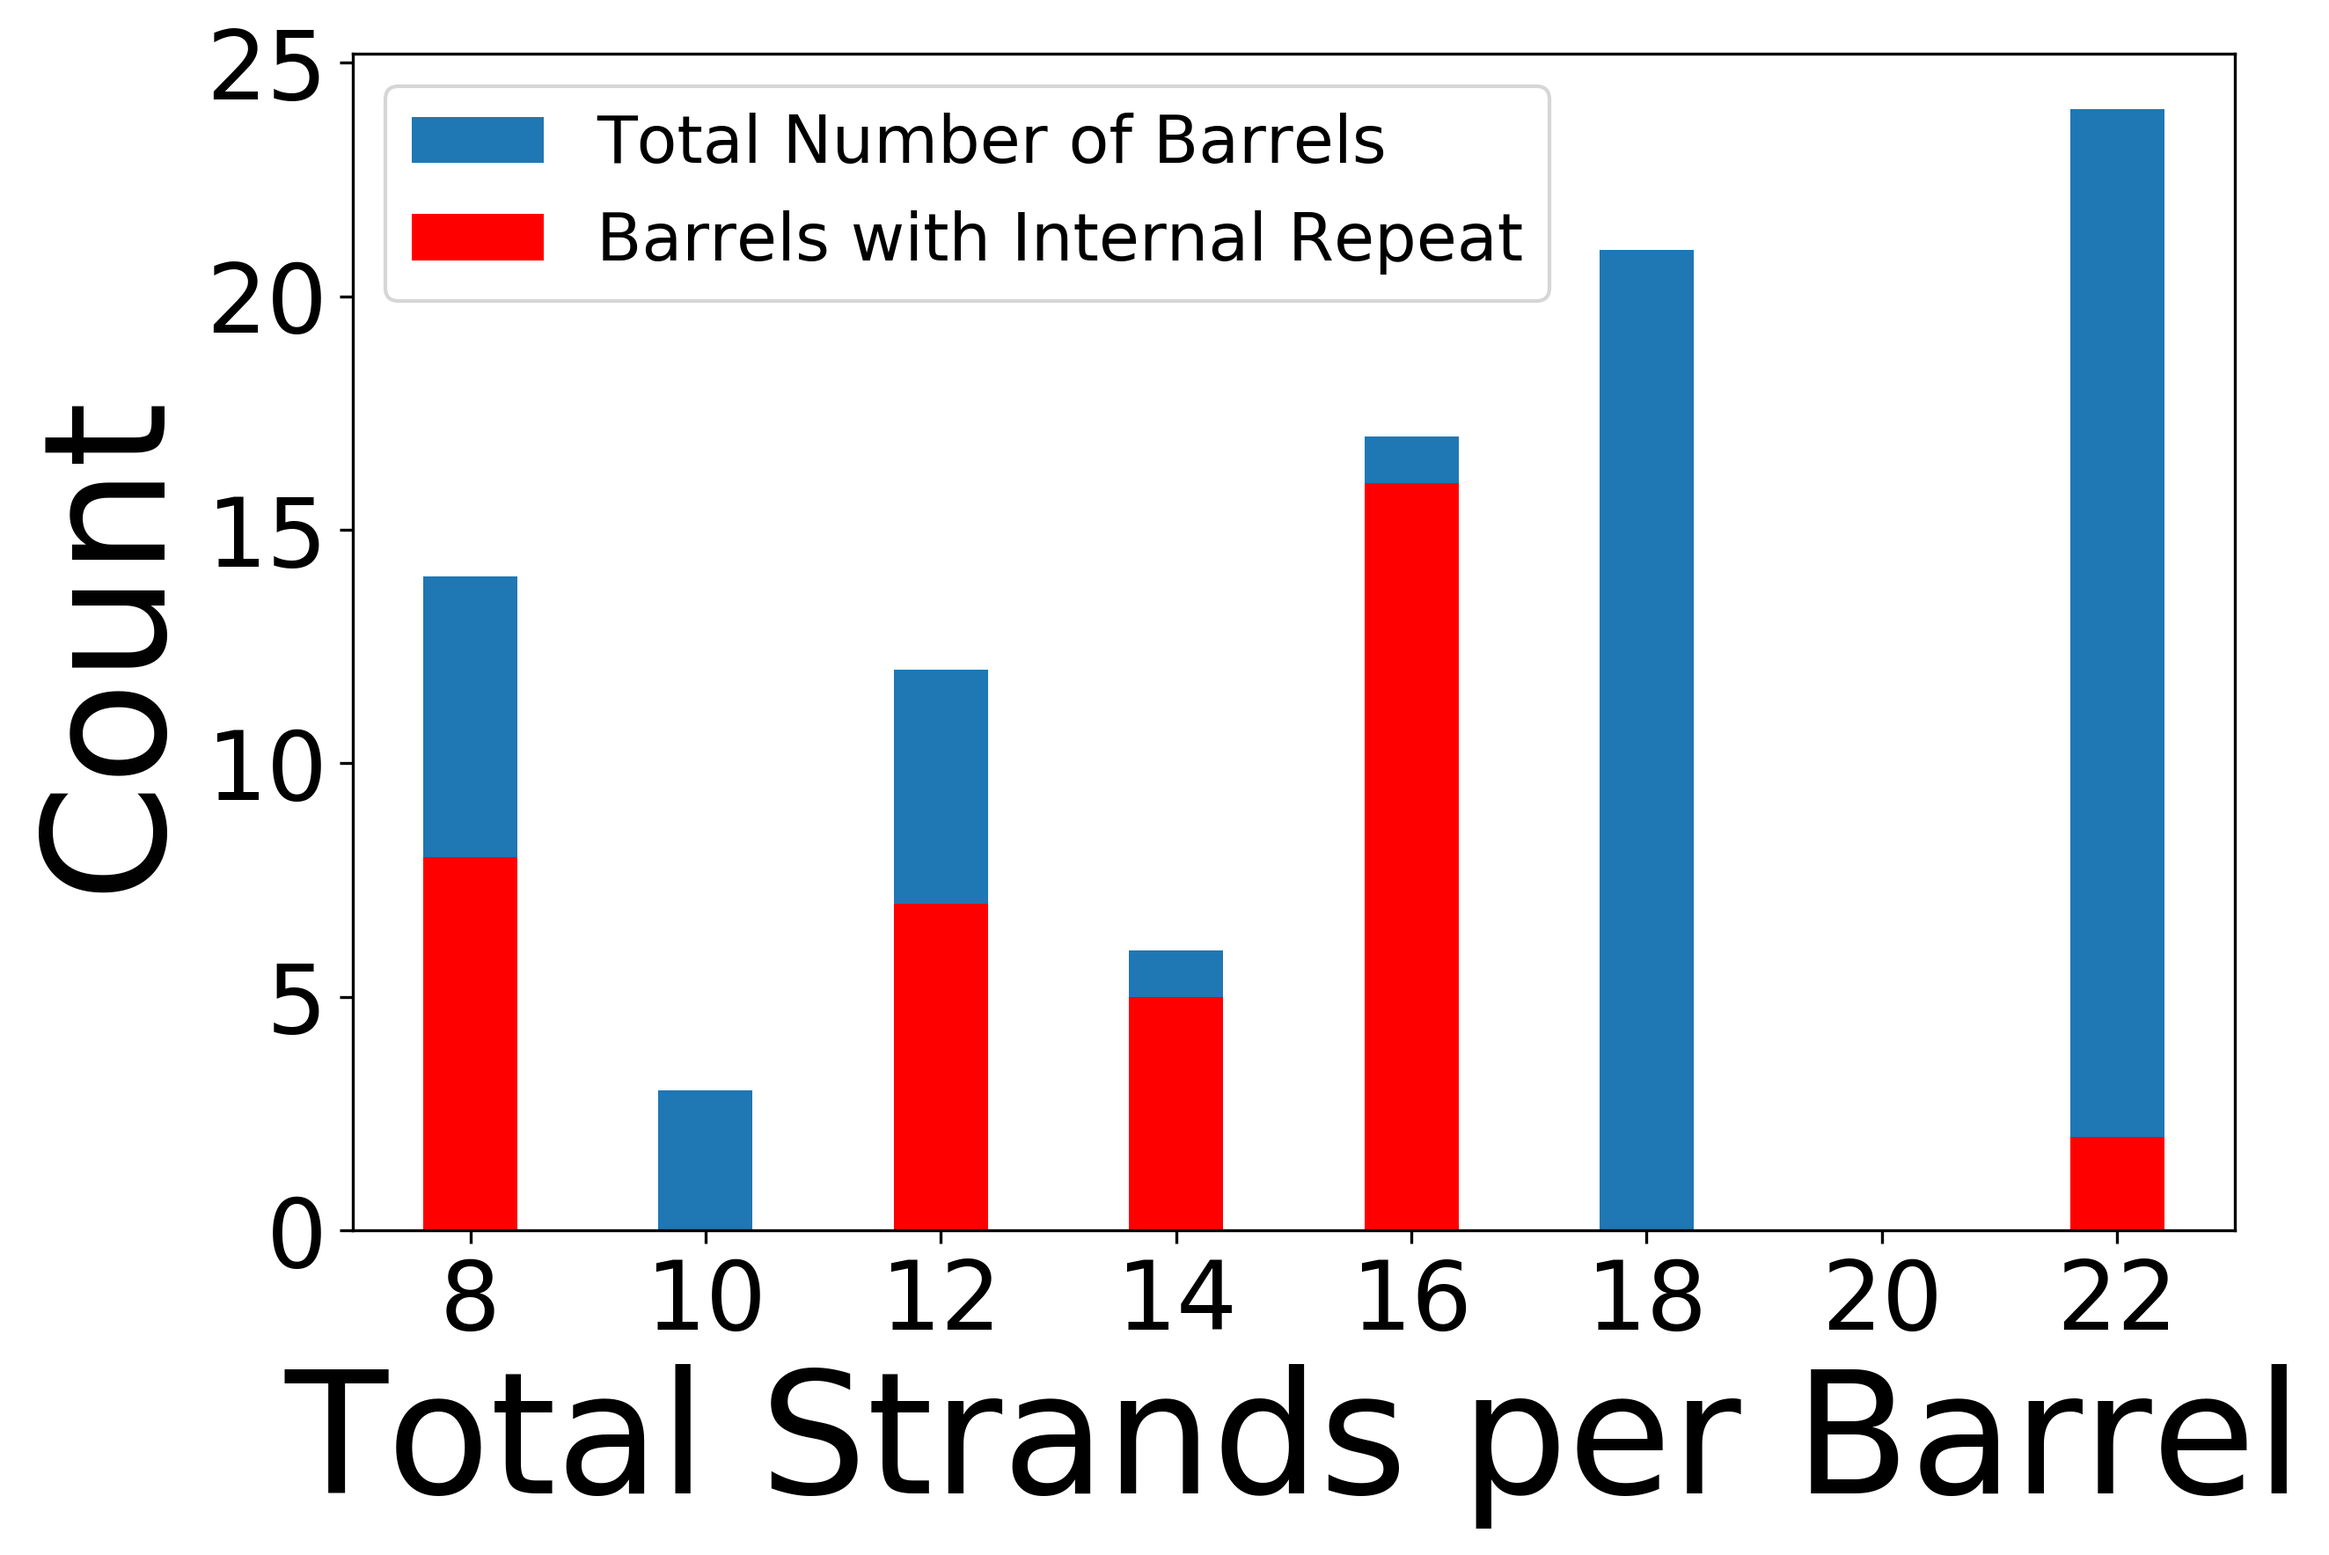
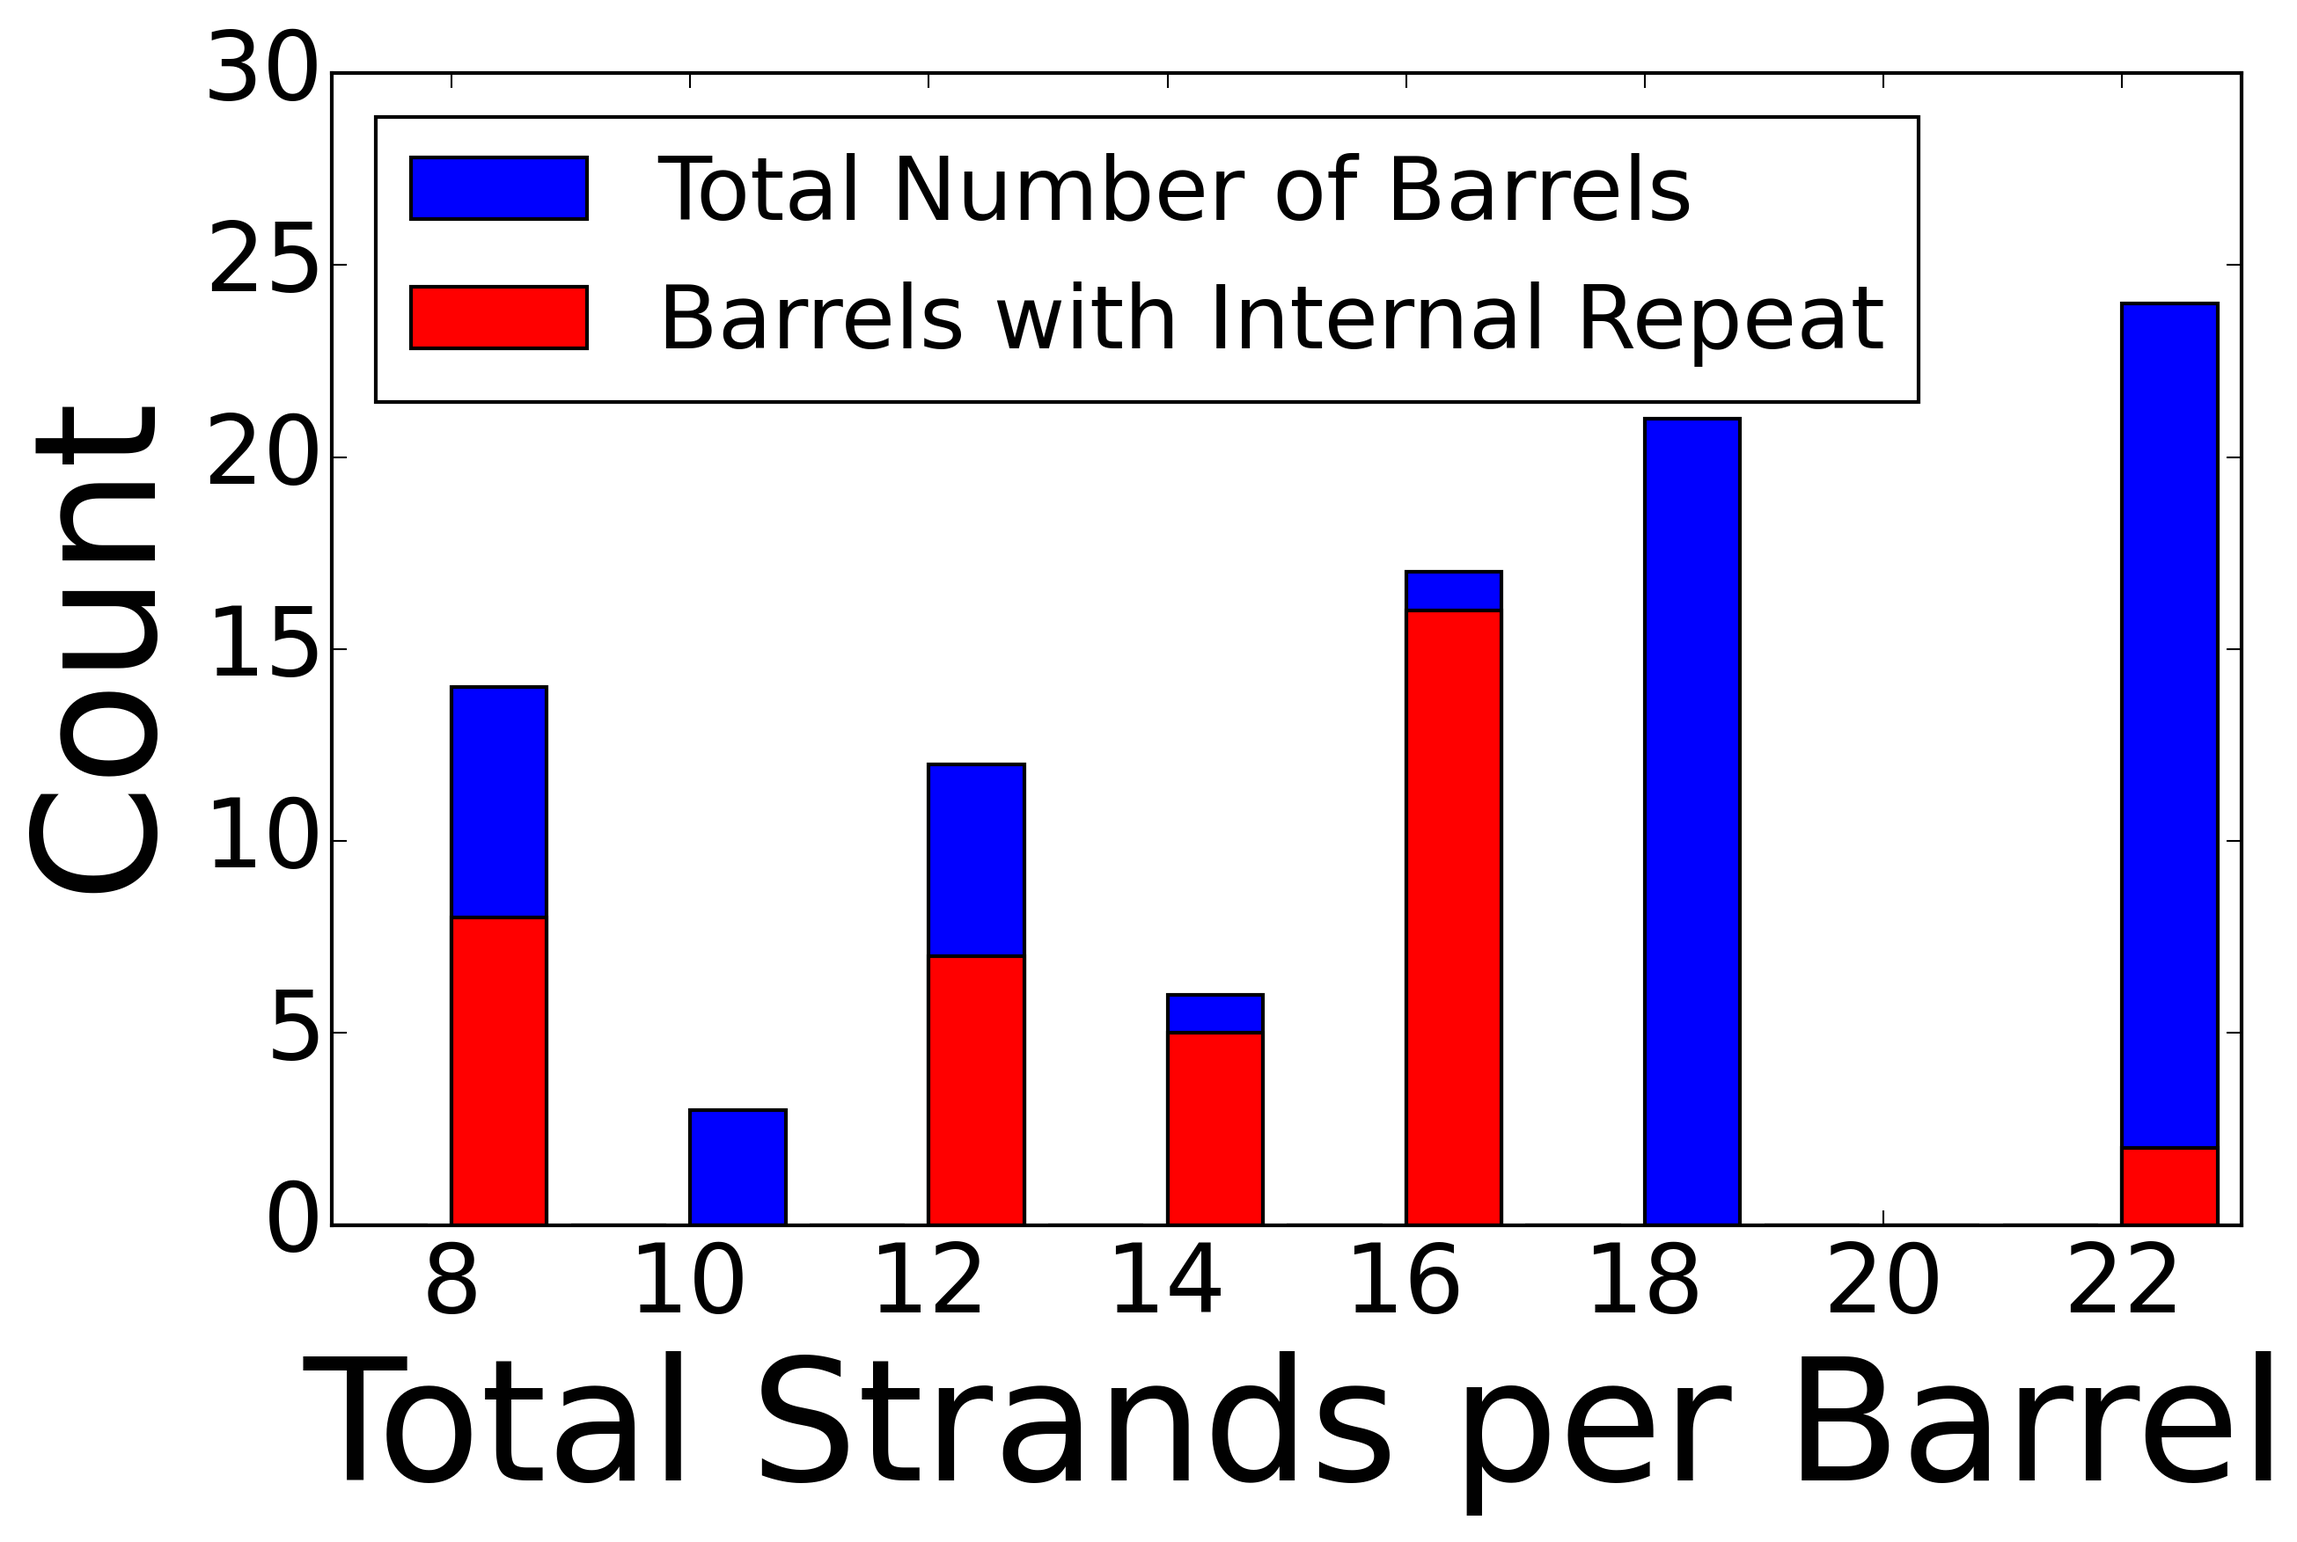
Changed font size

diff --git a/GraphIntRptsByStrands.py b/GraphIntRptsByStrands.py
@@ -72,14 +72,14 @@ with open("data/CollatedIntRpts.txt", "r") as inData:
 #print(len(proto_cons_barrels))
 shift_types /= len(proto_cons_barrels)
 
-for pdb in set(proto_barrels).difference(proto_cons_barrels):
+"""for pdb in set(proto_barrels).difference(proto_cons_barrels):
     strand_cons_patt[ barrels[pdb] ][4] += 1
 
 print(strand_cons_patt)
 with open("data/CollatedIntRptsPatterns.txt", "w+") as outData:
     outData.write("NoFirst\tNoLast\tNeitherFL\tTotalRpts\tNoRpts\n")
     for line in strand_cons_patt:
-        outData.write("\t".join(map(str, line)) + "\n")
+        outData.write("\t".join(map(str, line)) + "\n")"""
         
 #print(proto_sizes)
 #print(cons_barrels, sum(cons_barrels))
@@ -92,23 +92,27 @@ ax1.set_xlabel("Total Strands per Barrel", size = 46)
 ax1.set_ylabel(r"Count", size = 46)
 width = 0.5
 ax1.bar(ind, proto_sizes, label = "Total Number of Barrels")
-#ax1.bar(ind, cons_barrels, color = "red", label = "Barrels with Internal Repeat")
-ax1.bar(ind, shifts_by_size[:,0], color = "darkolivegreen", label = "Single Hairpin Shifts")
-ax1.bar(ind, shifts_by_size[:,1], bottom = shifts_by_size[:,0], color = "darkgoldenrod", label = "Double Hairpin Shifts")
-ax1.bar(ind, shifts_by_size[:,2], bottom = shifts_by_size[:,0], color = "indigo", label = "Other Internal Repeat")
+ax1.bar(ind, cons_barrels, color = "red", label = "Barrels with Internal Repeat")
+#ax1.bar(ind, shifts_by_size[:,0], color = "darkolivegreen", label = "Single Hairpin Shifts")
+#ax1.bar(ind, shifts_by_size[:,1], bottom = shifts_by_size[:,0], color = "darkgoldenrod", label = "Double Hairpin Shifts")
+#ax1.bar(ind, shifts_by_size[:,2], bottom = shifts_by_size[:,0], color = "indigo", label = "Other Internal Repeat")
 ax1.set_xlim([7,23])
 ax1.set_xticks(np.arange(8,23,2))
 ax1.set_xticklabels(np.arange(8,23,2))
-ax1.legend(loc = 0, scatterpoints = 1, fontsize = 18)
+#handles,labels = ax1.get_legend_handles_labels()
+#handles = [handles[1], handles[0]]
+#labels = [labels[1], labels[0]]
+#ax1.legend(handles,labels, loc = 0, scatterpoints = 1, fontsize = 24)
+ax1.legend(loc = 0, scatterpoints = 1, fontsize = 24)
 ax1.set_ylim([0,30])
 plt.tick_params(labelsize = 26)
 plt.tight_layout()
 #fig.subplots_adjust(wspace = 0.15)
-#plt.savefig("NetworkGraphs/ConsProportion_1e3.png", dpi = 300, bbox_inches = "tight")
-plt.savefig("NetworkGraphs/ConsProportionByType_1e3.png", dpi = 300, bbox_inches = "tight")
+plt.savefig("NetworkGraphs/ConsProportion_1e3.png", dpi = 300, bbox_inches = "tight")
+#plt.savefig("NetworkGraphs/ConsProportionByType_1e3.png", dpi = 300, bbox_inches = "tight")
 #plt.show()
 
-ind = np.arange(0,3)
+"""ind = np.arange(0,3)
 fig, ax1 = plt.subplots(nrows = 1, ncols = 1, figsize = (9,6))
 #plt.title("Internal Repeats of the Prototypical Barrels", size = 22)
 ax1.set_xlabel("Internal Repeat Type", size = 46)
@@ -126,4 +130,4 @@ plt.tick_params(labelsize = 26)
 plt.tight_layout()
 #fig.subplots_adjust(wspace = 0.15)
 plt.savefig("NetworkGraphs/IntRptTypes_1e3.png", dpi = 300, bbox_inches = "tight")
-#plt.show()
+#plt.show()"""
